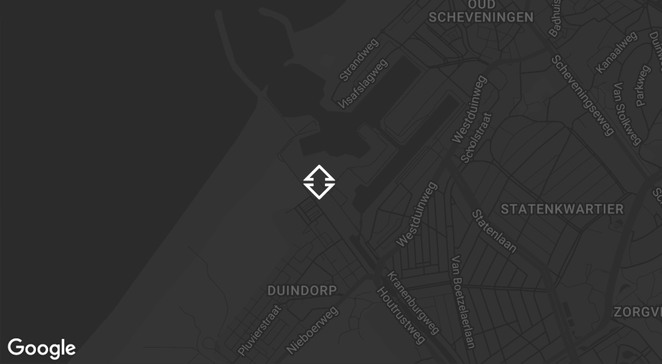
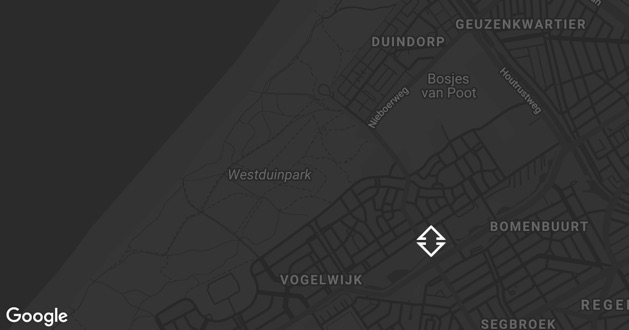
Update google maps image on homepage
To reflect new location

diff --git a/site/static/assets/js/contact-google-maps.js b/site/static/assets/js/contact-google-maps.js
@@ -10,7 +10,7 @@ function initMap() { // eslint-disable-line
     disableDefaultUI: true,
     scrollwheel: false,
     draggable: !('ontouchend' in document),
-    center: {lat: 52.0957914, lng: 4.2584797},
+    center: {lat: 52.0841096, lng: 4.2512202},
     zoom: 14,
     backgroundColor: 'none',
     styles: [{
@@ -65,7 +65,7 @@ function initMap() { // eslint-disable-line
   })
 
   var marker = new google.maps.Marker({
-    position: {lat: 52.0957914, lng: 4.2606684},
+    position: {lat: 52.0801096, lng: 4.2612202},
     map: map,
     icon: {
       path: 'M42.9 29v-3c0-.6.4-1 1-1h6.6l-18-17.9L14.6 25h6.6c.6 0 1 .4 1 1v3c0 .6-.4 1-1 1H4.5c-1.1 0-1.4-.6-.6-1.4L31.1 1.4c.8-.8 2-.8 2.8 0L61 28.5c.8.8.5 1.4-.6 1.4H43.9c-.6.1-1-.3-1-.9zM4.5 35h16.6c.6 0 1 .4 1 1v3c0 .6-.4 1-1 1h-6.6l17.9 17.9 18-17.9h-6.6c-.6 0-1-.4-1-1v-3c0-.6.4-1 1-1h16.6c1.1 0 1.4.6.6 1.4L33.9 63.6c-.8.8-2 .8-2.8 0L3.9 36.4c-.7-.8-.5-1.4.6-1.4z',
@@ -77,7 +77,7 @@ function initMap() { // eslint-disable-line
       anchor: new google.maps.Point(32, 32)
     },
     title: 'Reality Scheveningen',
-    url: 'https://www.google.nl/maps/place/Rode+Kruislaan,+2565+HE+Den+Haag/@52.0803677,4.260659,17z/data=!3m1!4b1!4m5!3m4!1s0x47c5b0e67a3fd6b7:0xb9b14c36ec042ca7!8m2!3d52.0803677!4d4.2628477'
+    url: 'https://www.google.nl/maps/place/Rode+Kruislaan,+2565+HE+Den+Haag/@52.08046,4.2617185,18z/data=!4m13!1m7!3m6!1s0x47c5b0e67a3fd6b7:0xb9b14c36ec042ca7!2sRode+Kruislaan,+2565+HE+Den+Haag!3b1!8m2!3d52.0803677!4d4.2628477!3m4!1s0x47c5b0e67a3fd6b7:0xb9b14c36ec042ca7!8m2!3d52.0803677!4d4.2628477'
   })
 
   google.maps.event.addListener(marker, 'click', function () {
